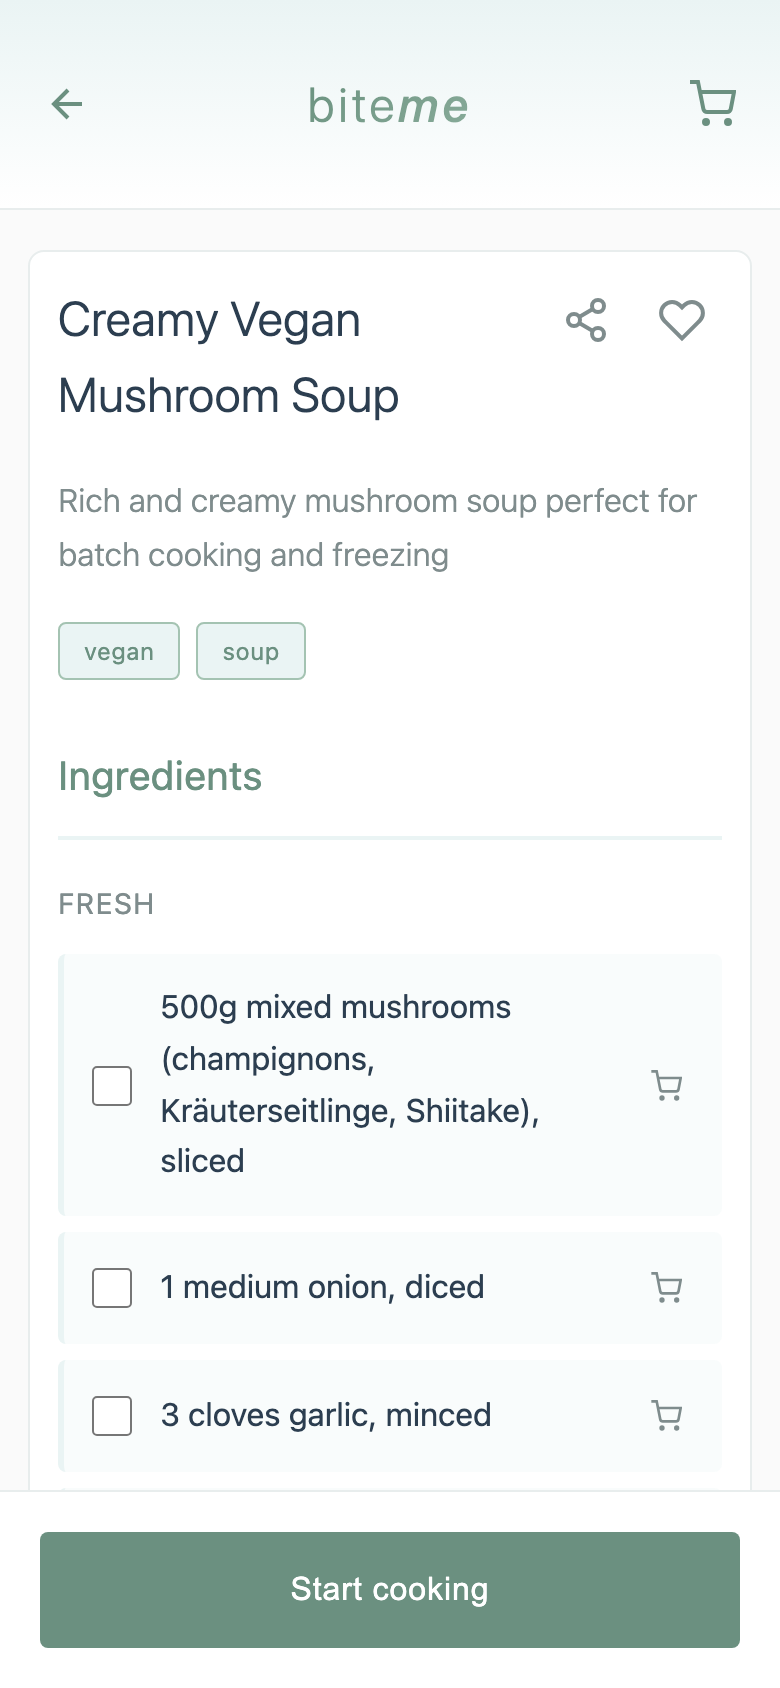
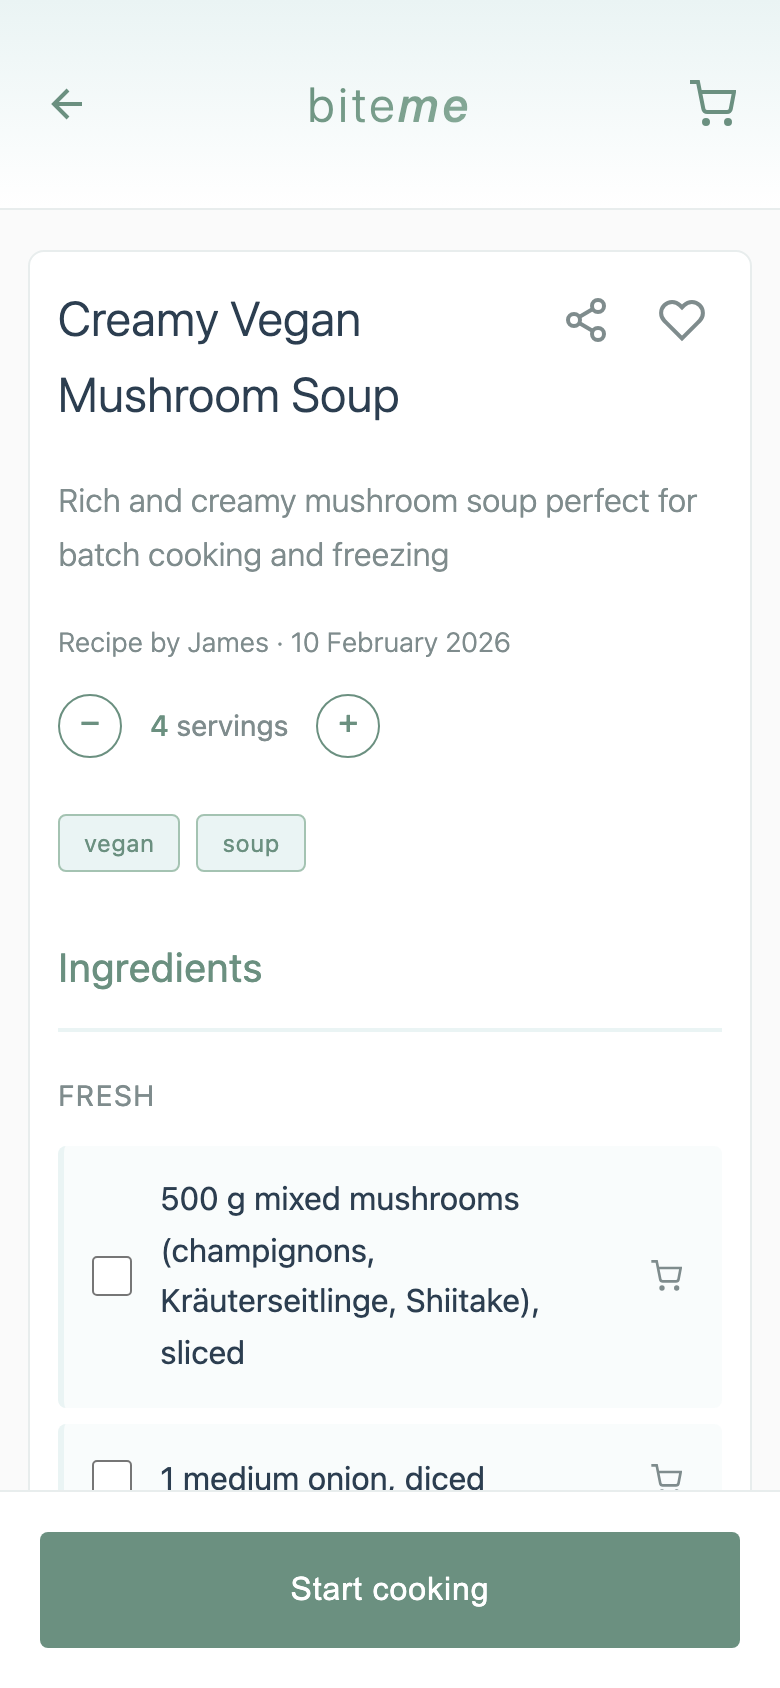
Update README screenshots and remove generated_at from manifest
Regenerate screenshots to reflect current UI. Remove unused
generated_at field from recipe manifest to avoid unnecessary
diffs when re-running the parser with no recipe changes.

diff --git a/tests/home.spec.js b/tests/home.spec.js
@@ -347,7 +347,7 @@ test.describe('Recipe Refresh on Resume', () => {
       route.fulfill({
         status: 200,
         contentType: 'application/json',
-        body: JSON.stringify({ version: 'updated-version', generated_at: '9999999999', recipe_count: 4 })
+        body: JSON.stringify({ version: 'updated-version', recipe_count: 4 })
       });
     });
     await page.unroute('**/recipes.json');
@@ -380,7 +380,7 @@ test.describe('Recipe Refresh on Resume', () => {
       route.fulfill({
         status: 200,
         contentType: 'application/json',
-        body: JSON.stringify({ version: currentVersion, generated_at: '9999999999', recipe_count: 3 })
+        body: JSON.stringify({ version: currentVersion, recipe_count: 3 })
       });
     });
 

diff --git a/recipe-parser/src/main.rs b/recipe-parser/src/main.rs
@@ -88,7 +88,6 @@ struct Recipe {
 #[derive(Serialize)]
 struct Manifest {
     version: String,
-    generated_at: String,
     recipe_count: usize,
 }
 
@@ -895,11 +894,6 @@ fn main() -> Result<()> {
 
     let manifest = Manifest {
         version: hash,
-        generated_at: std::time::SystemTime::now()
-            .duration_since(std::time::UNIX_EPOCH)
-            .unwrap()
-            .as_secs()
-            .to_string(),
         recipe_count: recipes.len(),
     };
 

diff --git a/README.md b/README.md
@@ -15,7 +15,7 @@ A simple, open-source vegetarian/vegan recipe app with an elegant minimalist des
   </tr>
   <tr>
     <td align="center"><b>Browse & discover</b><br><sub>Search recipes, save your favourites, find what to cook tonight</sub></td>
-    <td align="center"><b>Plan your cook</b><br><sub>Clear ingredient list — check off what you have, add the rest to your shopping list</sub></td>
+    <td align="center"><b>Plan your cook</b><br><sub>Adjust servings, check off what you have, add the rest to your shopping list</sub></td>
   </tr>
   <tr>
     <td align="center"><img src="documentation/screenshots/cooking.png" width="200" alt="Cooking mode"></td>
